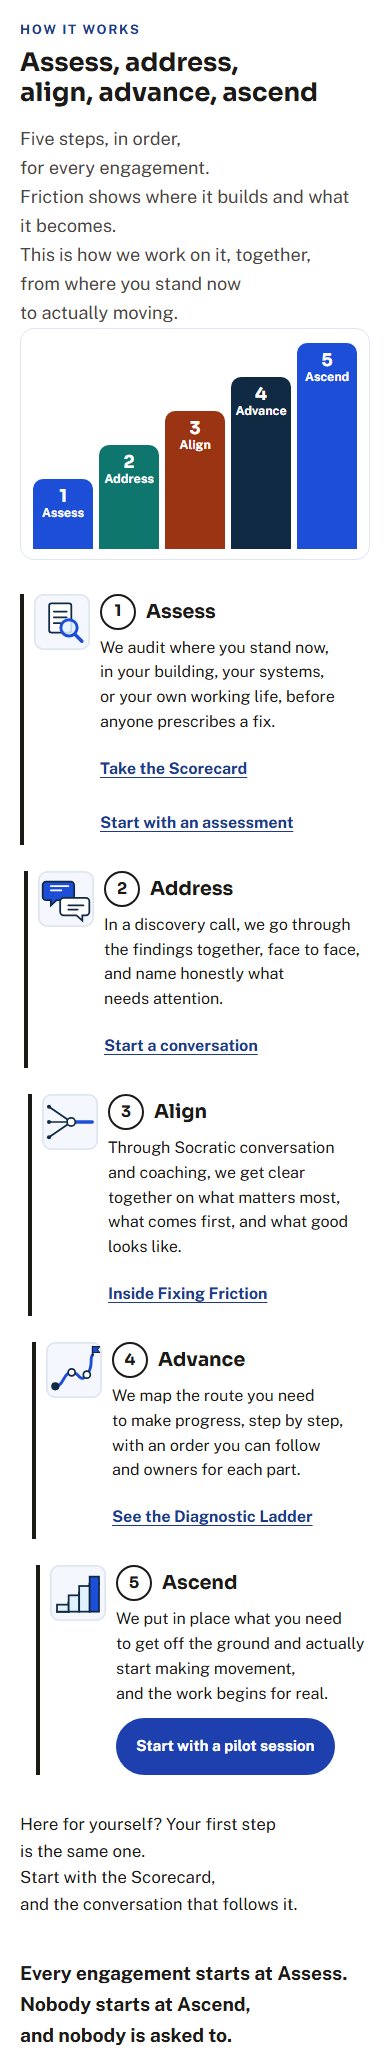
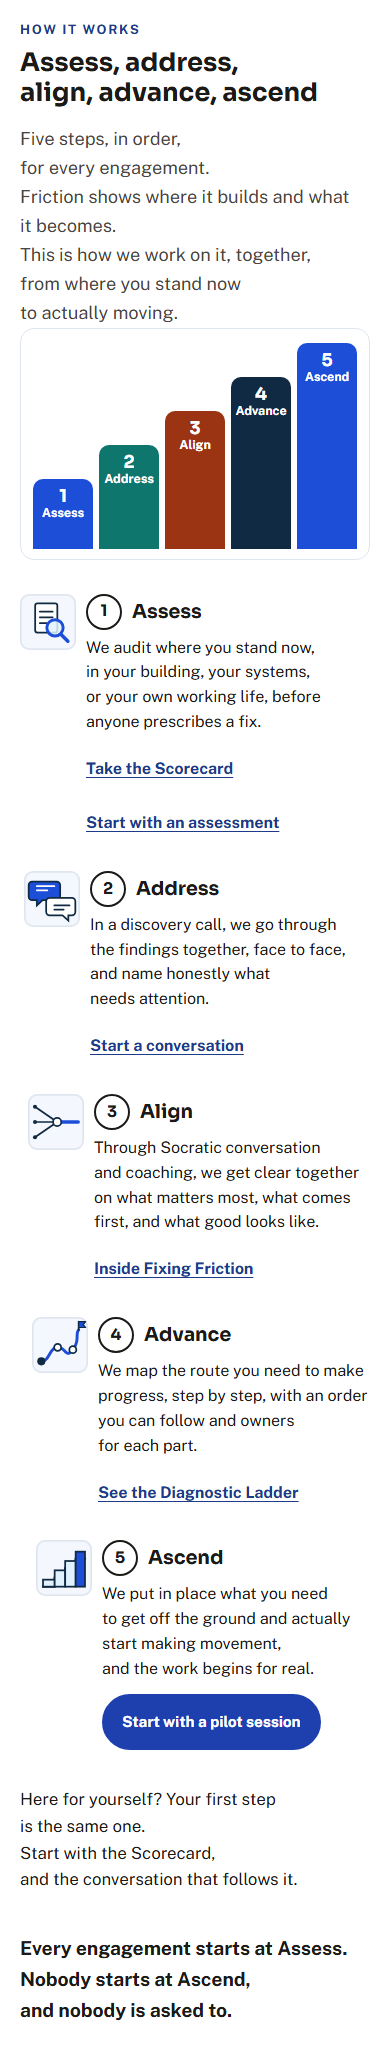
Phase 3 polish: remove the vertical bars beside the A Ladder steps

diff --git a/index.html b/index.html
@@ -1392,7 +1392,7 @@
       .ff-stair-n{color:#FFFFFF;font-family:"Sora","Public Sans",system-ui,sans-serif;font-weight:800;font-size:1.35rem;line-height:1.1;}
       .ff-stair-t{color:#FFFFFF;font-weight:700;font-size:1rem;line-height:1.2;}
       .ff-ladder{list-style:none;margin:34px 0 0;padding:0;display:flex;flex-direction:column;gap:26px;}
-      .ff-ladder > li{display:grid;grid-template-columns:104px minmax(0,30.5rem);column-gap:24px;align-items:start;border-left:4px solid var(--ink);padding-left:22px;}
+      .ff-ladder > li{display:grid;grid-template-columns:104px minmax(0,30.5rem);column-gap:24px;align-items:start;}
       .ff-ladder > li:nth-child(1){margin-left:0;}
       .ff-ladder > li:nth-child(2){margin-left:36px;}
       .ff-ladder > li:nth-child(3){margin-left:72px;}
@@ -1419,7 +1419,7 @@
         .ff-stair{padding-top:8px;}
         .ff-stair-n{font-size:1.1rem;}
         .ff-stair-t{font-size:.78rem;}
-        .ff-ladder > li{grid-template-columns:56px minmax(0,1fr);column-gap:10px;padding-left:10px;}
+        .ff-ladder > li{grid-template-columns:56px minmax(0,1fr);column-gap:10px;}
         .ff-ladder > li:nth-child(2){margin-left:4px;}
         .ff-ladder > li:nth-child(3){margin-left:8px;}
         .ff-ladder > li:nth-child(4){margin-left:12px;}
